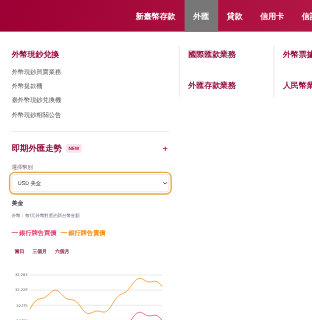
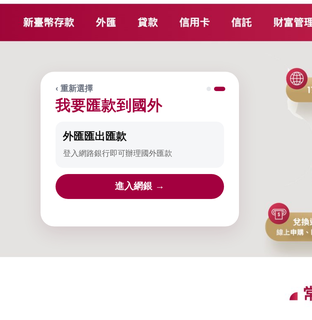
Add files via upload

diff --git a/index.html b/index.html
@@ -856,9 +856,9 @@ html.pw-locked body{visibility:hidden}
   const HOLD_CAT = '暫緩開發';
   const HOLD_ICON = '<span class="hold-ic" aria-hidden="true"><svg width="13" height="13" viewBox="0 0 24 24" fill="none" stroke="currentColor" stroke-width="2.4" stroke-linecap="round" stroke-linejoin="round"><path d="M6 3h12M6 21h12M7 3c0 4 5 5 5 9s-5 5-5 9M17 3c0 4-5 5-5 9s5 5 5 9"/></svg></span>';
   function buildControls() {
-    $('cat-list').innerHTML = [['__all', '全部', ITEMS.length]].concat(CATEGORIES.map(c => [c, c, ITEMS.filter(it => it.cat === c).length]))
+    $('cat-list').innerHTML = [['__all', '全部', ITEMS.filter(it => it.cat !== HOLD_CAT).length]].concat(CATEGORIES.map(c => [c, c, ITEMS.filter(it => it.cat === c).length]))
       .map(([v, l, n]) => (v === HOLD_CAT ? '<span class="cat-sep" aria-hidden="true"></span>' : '') + `<button class="cat-opt" type="button" data-cat="${v}" aria-pressed="false" ${n ? '' : 'disabled'}>${v === HOLD_CAT ? `<span class="hold-l">${HOLD_ICON}${l}</span>` : `<span>${l}</span>`}<small>${n} 項</small></button>`).join('');
-    $('cat-filters').innerHTML = [`<button class="cat-tab" type="button" data-cat="__all" aria-pressed="false">全部<span class="n">${ITEMS.length}</span></button>`]
+    $('cat-filters').innerHTML = [`<button class="cat-tab" type="button" data-cat="__all" aria-pressed="false">全部<span class="n">${ITEMS.filter(it => it.cat !== HOLD_CAT).length}</span></button>`]
       .concat(CATEGORIES.map(c => { const n = ITEMS.filter(it => it.cat === c).length; return (c === HOLD_CAT ? '<span class="tab-sep" aria-hidden="true"></span>' : '') + `<button class="cat-tab" type="button" data-cat="${c}" aria-pressed="false" ${n ? '' : 'disabled'}>${c === HOLD_CAT ? HOLD_ICON : ''}${c}<span class="n">${n}</span></button>`; }))
       .join('');
     $('stars-range').innerHTML = [1, 2, 3, 4, 5].map(n =>
@@ -887,7 +887,7 @@ html.pw-locked body{visibility:hidden}
   function syncControls() {
     const curCat = state.cats[0] || '';
     $('cat-btn-label').textContent = '類別：' + (curCat || '全部');
-    $('cat-btn-n').textContent = curCat ? ITEMS.filter(it => it.cat === curCat).length : ITEMS.length;
+    $('cat-btn-n').textContent = curCat ? ITEMS.filter(it => it.cat === curCat).length : ITEMS.filter(it => it.cat !== HOLD_CAT).length;
     $('cat-btn').classList.toggle('on', !!curCat);
     document.querySelectorAll('[data-cat]').forEach(b => {
       const on = b.dataset.cat === '__all' ? state.cats.length === 0 : state.cats.includes(b.dataset.cat);
@@ -945,6 +945,7 @@ html.pw-locked body{visibility:hidden}
     const q = state.q.trim().toLowerCase();
     let list = ITEMS.filter(it => {
       if (state.cats.length && !state.cats.includes(it.cat)) return false;
+      if (!state.cats.length && it.cat === HOLD_CAT) return false;
       if (state.diffMin && (it.diff < state.diffMin || it.diff > state.diffMax)) return false;
       if (state.platforms.length && !state.platforms.some(p => it.platforms.includes(p))) return false;
       if (q && !(it.title + it.summary + it.features.join('') + it.benefit + it.cat).toLowerCase().includes(q)) return false;
